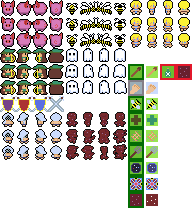
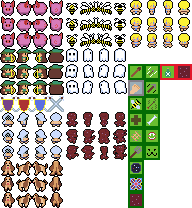
Added dog and finished archer

diff --git a/src/scenes/ChooseCardScene.ts b/src/scenes/ChooseCardScene.ts
@@ -118,6 +118,8 @@ export class ChooseCardScene extends Phaser.Scene {
     this.currentCardChoice = card.name;
     this.toggleUnselectCardOverlay(card);
     if (this.description.text === card.descriptionText) {
+      this.chooseText.setDepth(1);
+      this.chooseButton.setDepth(0);
       this.description.text = "";
     } else {
       this.description.text = card.descriptionText;
@@ -200,38 +202,38 @@ export class ChooseCardScene extends Phaser.Scene {
       UnitService.units["Archer"]
     ).setDepth(4);
     card1.x = card1.displayWidth / 2 + this.cardMargin;
-    // const card2 = new CharacterCard(
-    //   this,
-    //   card1.displayWidth * 1.5 + this.cardMargin * 2,
-    //   this.game.scale.height / 2,
-    //   false,
-    //   true,
-    //   UnitService.units["Renegade"]
-    // ).setDepth(3);
-    // const card3 = new CharacterCard(
-    //   this,
-    //   card1.displayWidth * 2.5 + this.cardMargin * 3,
-    //   this.game.scale.height / 2,
-    //   true,
-    //   true,
-    //   UnitService.units["Stranger"]
-    // ).setDepth(2);
-    const card2 = new BonusCard(
+    const card2 = new CharacterCard(
       this,
       card1.displayWidth * 1.5 + this.cardMargin * 2,
       this.game.scale.height / 2,
       false,
       true,
-      DeckService.bonusCardsData["HpBonus"]
+      UnitService.units["Dog"]
     ).setDepth(3);
-    const card3 = new BonusCard(
+    const card3 = new CharacterCard(
       this,
       card1.displayWidth * 2.5 + this.cardMargin * 3,
       this.game.scale.height / 2,
       true,
       true,
-      DeckService.bonusCardsData["EotBonus"]
+      UnitService.units["Stranger"]
     ).setDepth(2);
+    // const card2 = new BonusCard(
+    //   this,
+    //   card1.displayWidth * 1.5 + this.cardMargin * 2,
+    //   this.game.scale.height / 2,
+    //   false,
+    //   true,
+    //   DeckService.bonusCardsData["HpBonus"]
+    // ).setDepth(3);
+    // const card3 = new BonusCard(
+    //   this,
+    //   card1.displayWidth * 2.5 + this.cardMargin * 3,
+    //   this.game.scale.height / 2,
+    //   true,
+    //   true,
+    //   DeckService.bonusCardsData["EotBonus"]
+    // ).setDepth(2);
     this.cards.push(card1, card2, card3);
     this.add.existing(card1);
     this.add.existing(card2);

diff --git a/src/services/SpellService.ts b/src/services/SpellService.ts
@@ -242,6 +242,115 @@ export class SpellService {
       0,
       this.effectsOverTime["Wasp venom"]
     ),
+    "Light arrow": new Spell(
+      57,
+      6,
+      16,
+      3,
+      "Light arrow",
+      true,
+      false,
+      8,
+      0,
+      0,
+      0,
+      0,
+      0,
+      "monoTarget",
+      0
+    ),
+    "Heavy arrow": new Spell(
+      69,
+      4,
+      5,
+      5,
+      "Heavy arrow",
+      true,
+      true,
+      40,
+      1,
+      0,
+      0,
+      0,
+      0,
+      "monoTarget",
+      0,
+      0,
+      null,
+      null,
+      1
+    ),
+    "Poisoned arrow": new Spell(
+      81,
+      3,
+      8,
+      3,
+      "Poisoned arrow",
+      true,
+      false,
+      15,
+      0,
+      0,
+      0,
+      0,
+      0,
+      "monoTarget",
+      0,
+      0,
+      this.effectsOverTime["Poison"]
+    ),
+    Bone: new Spell(
+      93,
+      0,
+      0,
+      3,
+      "Bone",
+      false,
+      false,
+      0,
+      0,
+      0,
+      30,
+      0,
+      0,
+      "monoTarget",
+      0,
+      2
+    ),
+    Bite: new Spell(
+      105,
+      1,
+      1,
+      3,
+      "Bite",
+      true,
+      false,
+      25,
+      0,
+      0,
+      0,
+      0,
+      0,
+      "monoTarget"
+    ),
+    Cheering: new Spell(
+      117,
+      0,
+      0,
+      0,
+      "Cheering",
+      false,
+      false,
+      0,
+      0,
+      0,
+      0,
+      2,
+      2,
+      "star",
+      1,
+      2
+    ),
   };
 
   /** Transforms a list of spell names in a string into an array of Spell objects. */

diff --git a/src/classes/UI/UISpell.ts b/src/classes/UI/UISpell.ts
@@ -5,6 +5,7 @@ import { BattleScene } from "../../scenes/BattleScene";
 
 export class UISpell extends UIElement {
   iconScale = 1.1;
+  highlightFrameFrame = 45;
 
   spell: Spell;
   icon: Phaser.GameObjects.Image;
@@ -25,7 +26,7 @@ export class UISpell extends UIElement {
     this.spell = spell;
     this.battleScene = this.myScene.battleScene;
     this.addRegularIcon();
-    this.addHighlightIcon();
+    this.addHighlightFrame();
     this.addInfoText();
     this.createSpellCooldown();
     this.disabled = false;
@@ -40,7 +41,7 @@ export class UISpell extends UIElement {
 
   addIcon(highlight: boolean) {
     const scale = this.myScene.uiScale;
-    const iconFrame = highlight ? this.spell.frame + 1 : this.spell.frame;
+    const iconFrame = highlight ? this.highlightFrameFrame : this.spell.frame;
 
     const icon = this.myScene.add
       .image(this.x, this.y, "player", iconFrame)
@@ -70,7 +71,7 @@ export class UISpell extends UIElement {
     this.addIcon(false);
   }
 
-  addHighlightIcon() {
+  addHighlightFrame() {
     this.addIcon(true);
   }
 
@@ -273,15 +274,7 @@ export class UISpell extends UIElement {
 
   override refresh(): void {
     this.createSpellCooldown();
-
-    if (this.isHighlighted) {
-      this.icon.visible = false;
-      this.highlightIcon.visible = true;
-    } else {
-      this.icon.visible = true;
-      this.highlightIcon.visible = false;
-    }
-
+    this.highlightIcon.visible = this.isHighlighted;
     this.hideIfInaccessible();
 
     if (this.spell.cooldown > 0) {

diff --git a/src/classes/battle/Unit.ts b/src/classes/battle/Unit.ts
@@ -491,11 +491,16 @@ export class Unit extends Phaser.GameObjects.Sprite {
 
       this.hp -= damage;
       // no healing over max hp
-      this.hp = Math.min(this.hp + eot.heal, this.maxHp);
+      this.hp += eot.heal;
       this.ap -= eot.malusAP;
       this.ap += eot.bonusAP;
       this.mp -= eot.malusMP;
       this.mp += eot.bonusMP;
+
+      this.hp = Math.max(this.hp, 0);
+      this.hp = Math.min(this.hp, this.maxHp);
+      this.mp = Math.max(this.mp, 0);
+      this.ap = Math.max(this.ap, 0);
 
       this.updateHealthBar();
       eot.duration--;

diff --git a/src/scenes/BootScene.ts b/src/scenes/BootScene.ts
@@ -100,6 +100,8 @@ export class BootScene extends Phaser.Scene {
     this.load.image("AmazonIllus", "public/assets/images/amazon.png");
     this.load.image("RenegadeIllus", "public/assets/images/renegade.png");
     this.load.image("StrangerIllus", "public/assets/images/stranger.png");
+    this.load.image("ArcherIllus", "public/assets/images/archer.png");
+    this.load.image("DogIllus", "public/assets/images/dog.png");
     // bonus cards illustrations
     this.load.image("RangeBonusIllus", "public/assets/images/range_bonus.png");
     this.load.image(

diff --git a/src/services/UnitService.ts b/src/services/UnitService.ts
@@ -69,10 +69,19 @@ export class UnitService {
       HP: 100,
       MP: 4,
       AP: 6,
-      spells: "Sting",
+      spells: "Light arrow, Heavy arrow, Poisoned arrow",
       frame: 36,
       type: "Archer",
       description: "An elusive one, for sure.",
+    },
+    Dog: {
+      HP: 100,
+      MP: 6,
+      AP: 6,
+      spells: "Bone, Bite, Cheering",
+      frame: 120,
+      type: "Dog",
+      description: "That's a dog.",
     },
   };
 }
